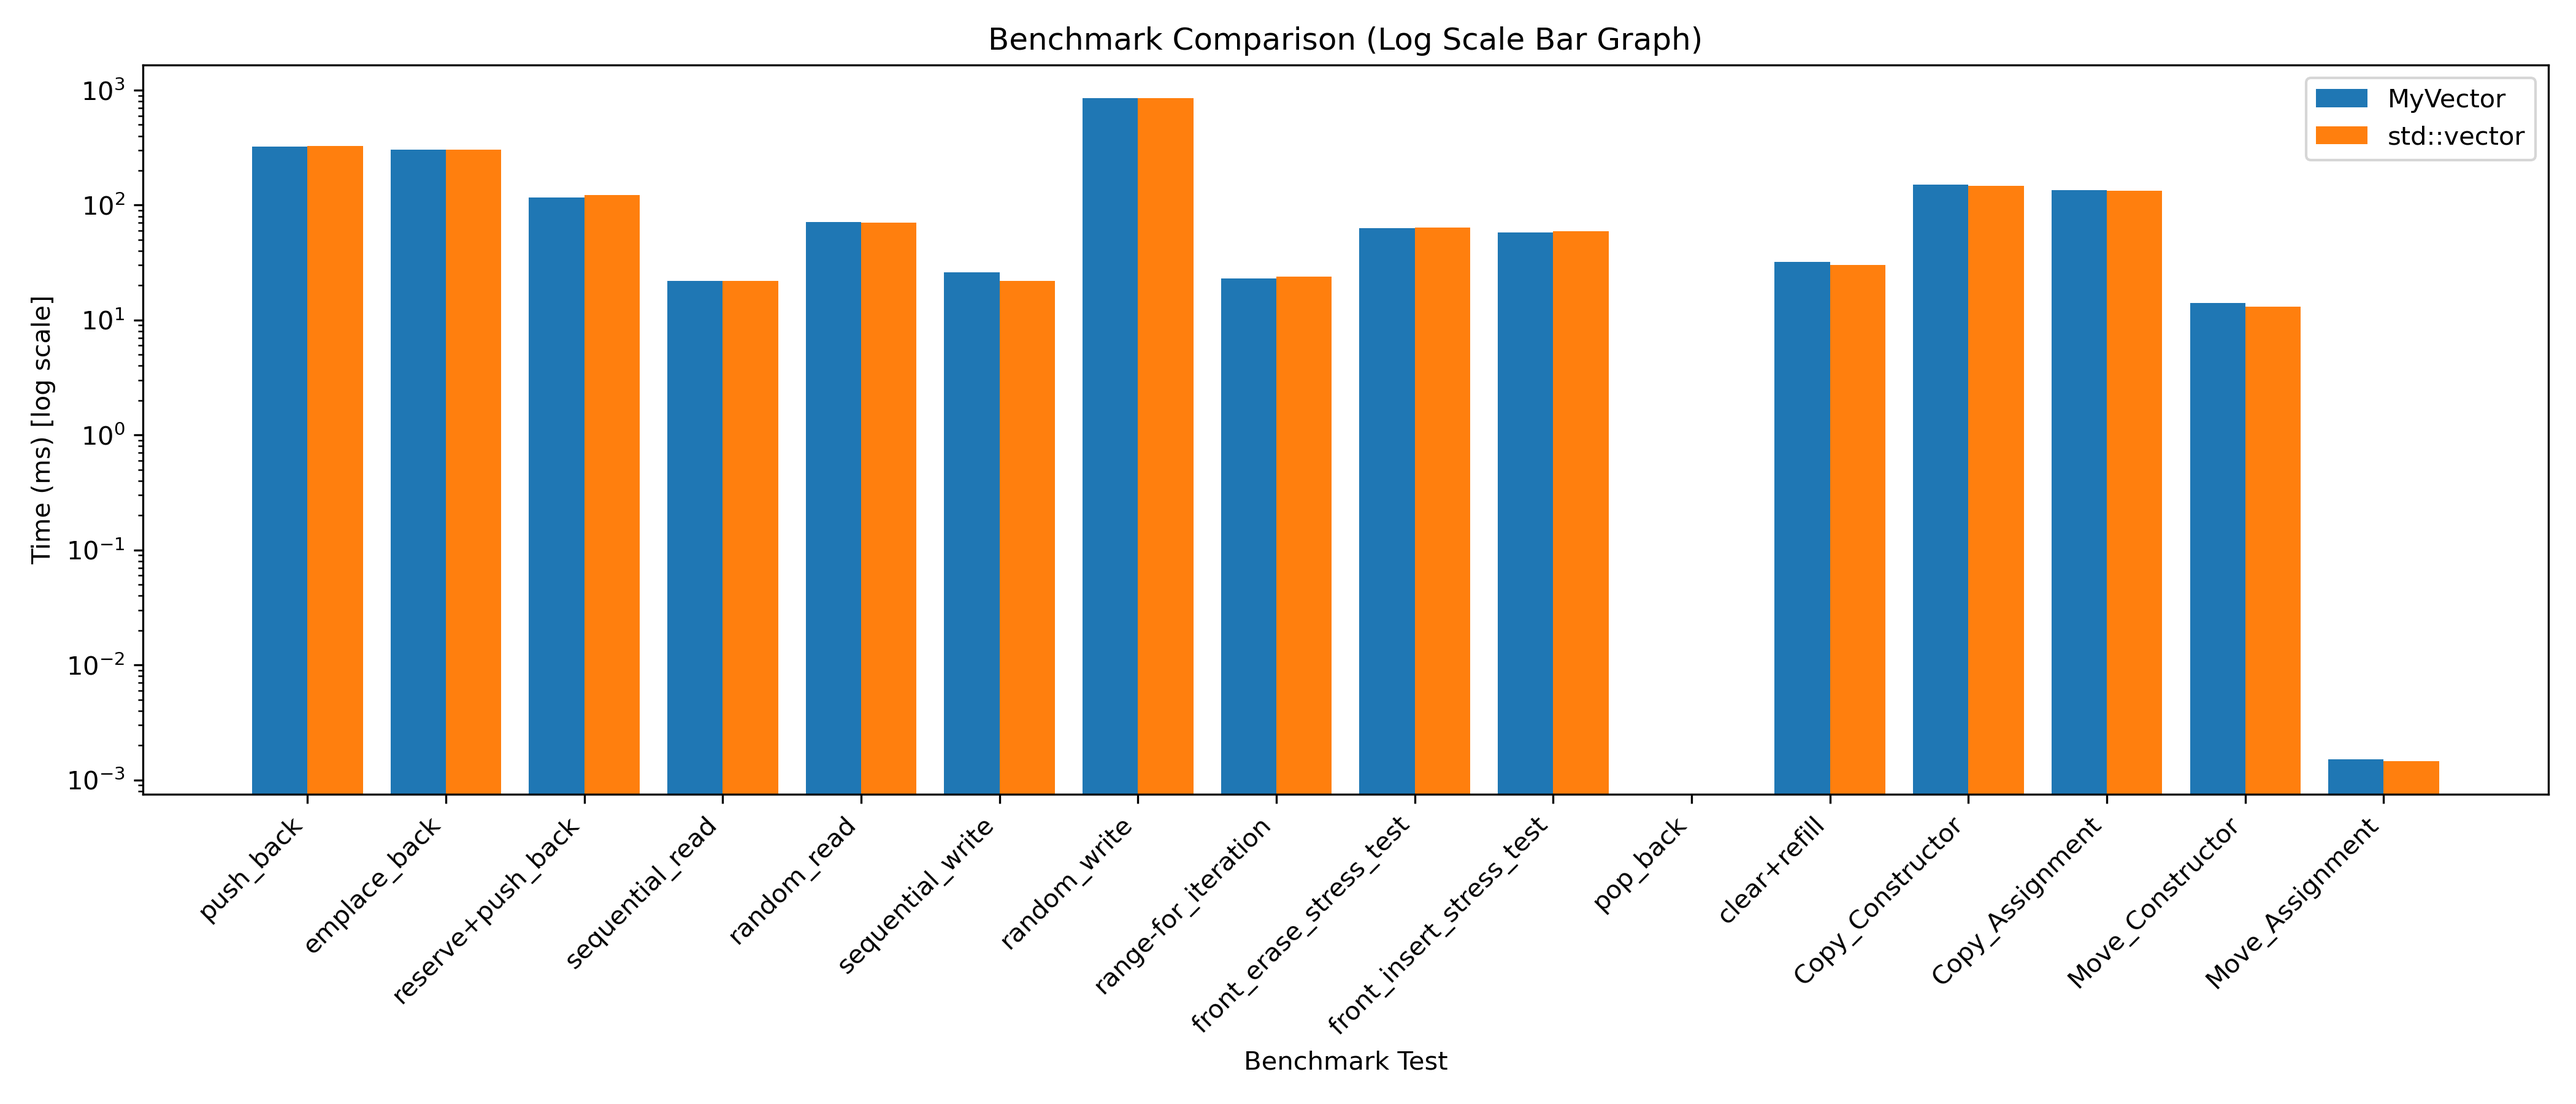
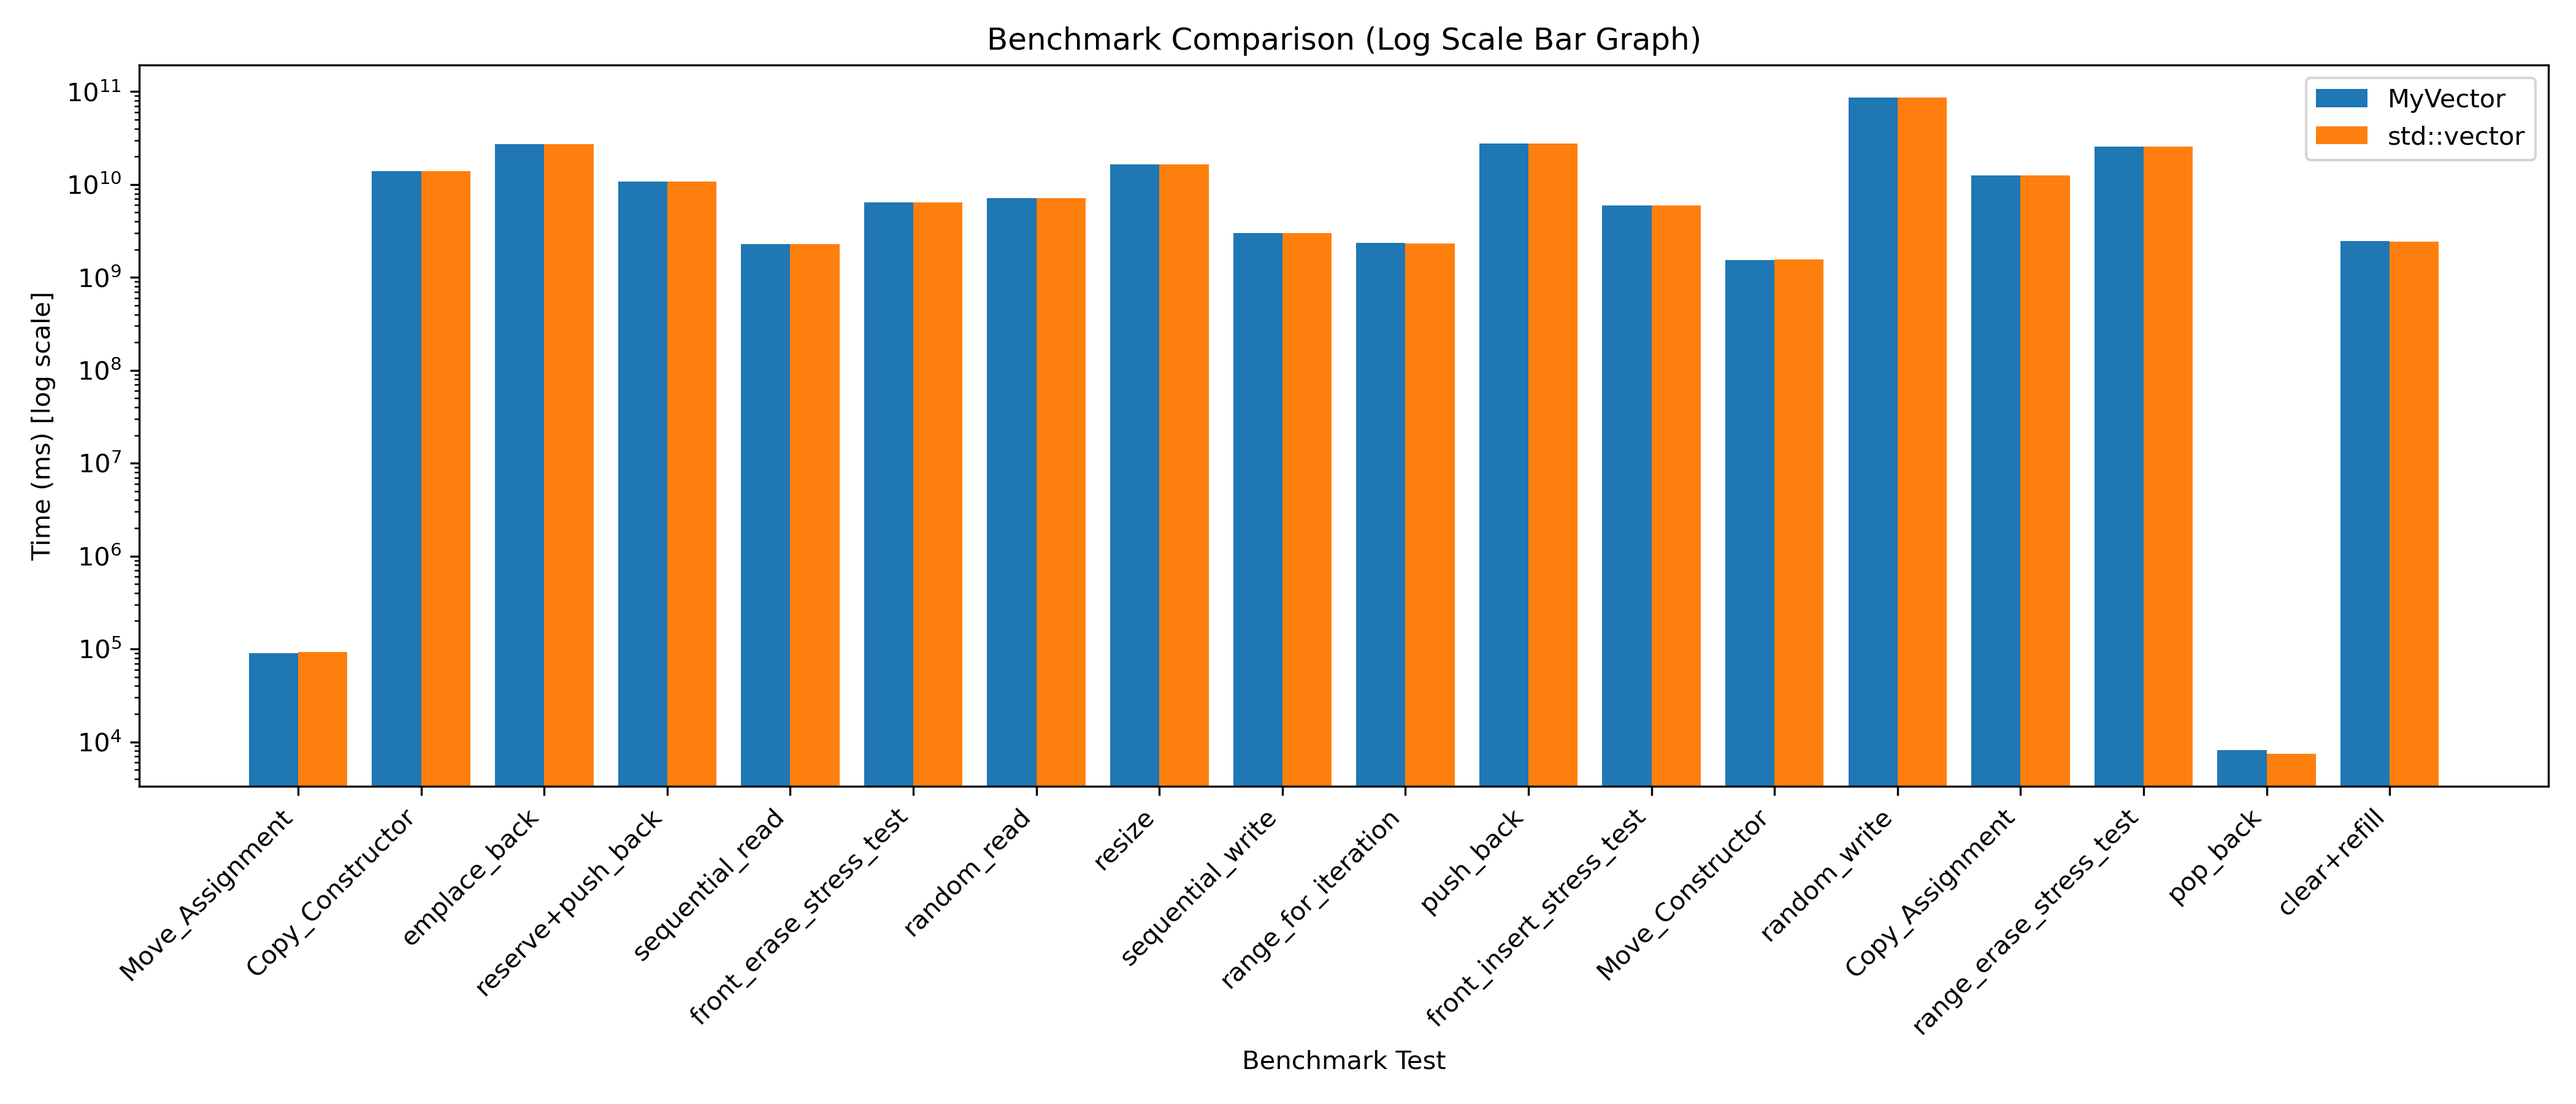
Reduced system noise and biasness in the benchmark by averaging for 100 results.

diff --git a/benchmark/benchmark.cpp b/benchmark/benchmark.cpp
@@ -2,6 +2,9 @@
 #include <vector>
 #include <chrono>
 #include <iostream>
+#include <unordered_map>
+#include <iomanip>
+#include <numeric>
 
 using ll = long long;
 
@@ -18,38 +21,29 @@ inline uint32_t fast_rand() {
     return x;
 }
 
-inline void iota(auto st, auto end, int st_val) {
-    while(st != end) {
-        *st = st_val;
-        st_val++;
-        st++;
-    }
-}
+static int t = 0;
+
+std::unordered_map<std::string, std::vector<double>> benchv;
 
 class timer {
     std::string s;
-    decltype(std::chrono::high_resolution_clock::now()) start;
+    decltype(std::chrono::steady_clock::now()) start;
     public:
     timer (std::string&& str) {
         s = std::move(str);
-        start = std::chrono::high_resolution_clock::now();
+        start = std::chrono::steady_clock::now();
     }
     ~timer() {
-        auto end = std::chrono::high_resolution_clock::now();
-        auto duration = std::chrono::duration_cast<std::chrono::milliseconds>(end-start);
-        std::string ans(35, ' ');
-        for(decltype(s.size()) i = 0; i<s.size(); i++) {
-            ans[i] = s[i];
-        }
-        std::cout<<ans<<duration.count()<<" ms\n";
+        auto end = std::chrono::steady_clock::now();
+        auto duration = std::chrono::duration_cast<std::chrono::nanoseconds>(end-start);
+        if(!benchv.contains(s)) benchv[s] = std::vector<double>(2);
+        benchv[s][t&1] += static_cast<double>(duration.count());
     }
 };
 
-template <typename Vec>
-void benchmark(const std::string& s) {
-    std::cout<<"Benchmarking "<<s<<"\n";
-    std::cout<<"------------------------------------------------"<<"\n";
 
+template <typename Vec>
+void benchmark() {
     //push_back
     {
         Vec v;
@@ -81,7 +75,7 @@ void benchmark(const std::string& s) {
     //sequential read
     {
         Vec v(N);
-        iota(v.begin(), v.end(), 0);
+        std::iota(v.begin(), v.end(), 0);
     
         timer t("sequential read");
         volatile ll sum = 0;
@@ -93,12 +87,13 @@ void benchmark(const std::string& s) {
     //random read
     {
         Vec v(N);
-        iota(v.begin(), v.end(), 0);
+        std::iota(v.begin(), v.end(), 0);
     
         timer t("random read");
         ll sum = 0;
         for(size_t i = 0; i<N; i++) {
-            int ind = fast_rand() % N;
+            uint32_t r = fast_rand();
+            uint64_t ind = (uint64_t(r)*N) >> 32;
             sum += v[ind];
         }
     }
@@ -107,8 +102,10 @@ void benchmark(const std::string& s) {
     {
         Vec v(N);
         timer t("sequential write");
+        volatile ll sum = 0;
         for(size_t i = 0; i<N; i++) {
             v[i] = i;
+            sum += i;
         }
     }
     
@@ -117,7 +114,8 @@ void benchmark(const std::string& s) {
         Vec v(N);
         timer t("random write");
         for(size_t i = 0; i<N; i++) {
-            int ind = fast_rand() % N;
+            uint32_t r = fast_rand();
+            uint64_t ind = (uint64_t(r)*N) >> 32;
             v[ind] = i;
         }
     }
@@ -125,7 +123,7 @@ void benchmark(const std::string& s) {
     //range-for iteration
     {
         Vec v(N);
-        iota(v.begin(), v.end(), 0);
+        std::iota(v.begin(), v.end(), 0);
         volatile ll sum = 0;
         timer t("range-for iteration");
         for(const auto it:v) {
@@ -136,10 +134,20 @@ void benchmark(const std::string& s) {
     //front erase stress test
     {
         Vec v(M);
-        iota(v.begin(), v.end(), 0);
+        std::iota(v.begin(), v.end(), 0);
         timer t("front erase stress test");
         for(size_t i = 0; i<M; i++) {
             v.erase(v.begin());
+        }
+    }
+
+    //range erase stress test
+    {
+        Vec v(10000000);
+        std::iota(v.begin(), v.end(), 0);
+        timer t("range erase stress test");
+        for(int i = 0; i<100; i++) {
+            v.erase(v.begin(), v.begin()+100000);
         }
     }
     
@@ -155,7 +163,7 @@ void benchmark(const std::string& s) {
     //pop_back
     {
         Vec v(N);
-        iota(v.begin(), v.end(), 0);
+        std::iota(v.begin(), v.end(), 0);
         timer t("pop_back");
         for(size_t i = 0; i<N; i++) {
             v.pop_back();
@@ -165,18 +173,26 @@ void benchmark(const std::string& s) {
     //clear+refill
     {
         Vec v(N);
-        iota(v.begin(), v.end(), 0);
+        std::iota(v.begin(), v.end(), 0);
         timer t("clear+refill");
         v.clear();
         for(size_t i = 0; i<N; i++) {
             v.emplace_back(i);
         }
     }
+
+    //resize
+    {
+        Vec v(M);
+        std::iota(v.begin(), v.end(), 0);
+        timer t("resize");
+        v.resize(N);
+    }
     
     //copy contr
     {
         Vec v1(N);
-        iota(v1.begin(), v1.end(), 0);
+        std::iota(v1.begin(), v1.end(), 0);
         timer t("Copy Constructor");
         Vec v2(v1);
     }
@@ -184,9 +200,9 @@ void benchmark(const std::string& s) {
     //copy assignment
     {
         Vec v1(N);
-        iota(v1.begin(), v1.end(), 0);
+        std::iota(v1.begin(), v1.end(), 0);
         Vec v2(100000);
-        iota(v2.begin(), v2.end(), 0);
+        std::iota(v2.begin(), v2.end(), 0);
         timer t("Copy Assignment");
         v2 = v1;
     }
@@ -194,7 +210,7 @@ void benchmark(const std::string& s) {
     //move contr
     {
         Vec v1(N);
-        iota(v1.begin(), v1.end(), 0);
+        std::iota(v1.begin(), v1.end(), 0);
         timer t("Move Constructor");
         Vec v2(std::move(v1));
     }
@@ -202,27 +218,29 @@ void benchmark(const std::string& s) {
     //move assignment
     {
         Vec v1(N);
-        iota(v1.begin(), v1.end(), 0);
+        std::iota(v1.begin(), v1.end(), 0);
         Vec v2(100000);
-        iota(v2.begin(), v2.end(), 0);
-        auto start = std::chrono::high_resolution_clock::now();
+        std::iota(v2.begin(), v2.end(), 0);
+        timer t("Move Assignment");
         v2 = std::move(v1);
-        auto end = std::chrono::high_resolution_clock::now();
-        auto duration = std::chrono::duration_cast<std::chrono::nanoseconds>(end-start);
-        std::string s = "Move Assignment";
-        std::string ans(35, ' ');
-        for(decltype(s.size()) i = 0; i<s.size(); i++) {
-            ans[i] = s[i];
-        }
-        std::cout<<ans<<duration.count()<<" ns\n";
     }
-    std::cout<<"\n";
 }
 
 int main() {
     std::ios::sync_with_stdio(0);
     std::cin.tie(nullptr);
-    benchmark<Vector<int>>("MyVector<int>");
-    benchmark<std::vector<int>>("std::vector<int>");
+    for(int i = 0; i<100; i++) {
+        benchmark<Vector<int>>();
+        t++;
+        benchmark<std::vector<int>>();
+    }
+    for(const auto &it:benchv) {
+        std::cout<<std::left<<std::setw(35)<<it.first;
+        double time1 = (1.0*it.second[0])/1.0;
+        double time2 = (1.0*it.second[1])/1.0;
+        std::cout<<std::fixed<<std::setprecision(5)
+                 <<std::setw(30)<<time1
+                 <<std::setw(30)<<time2<<'\n';
+    }
     return 0;
 }
